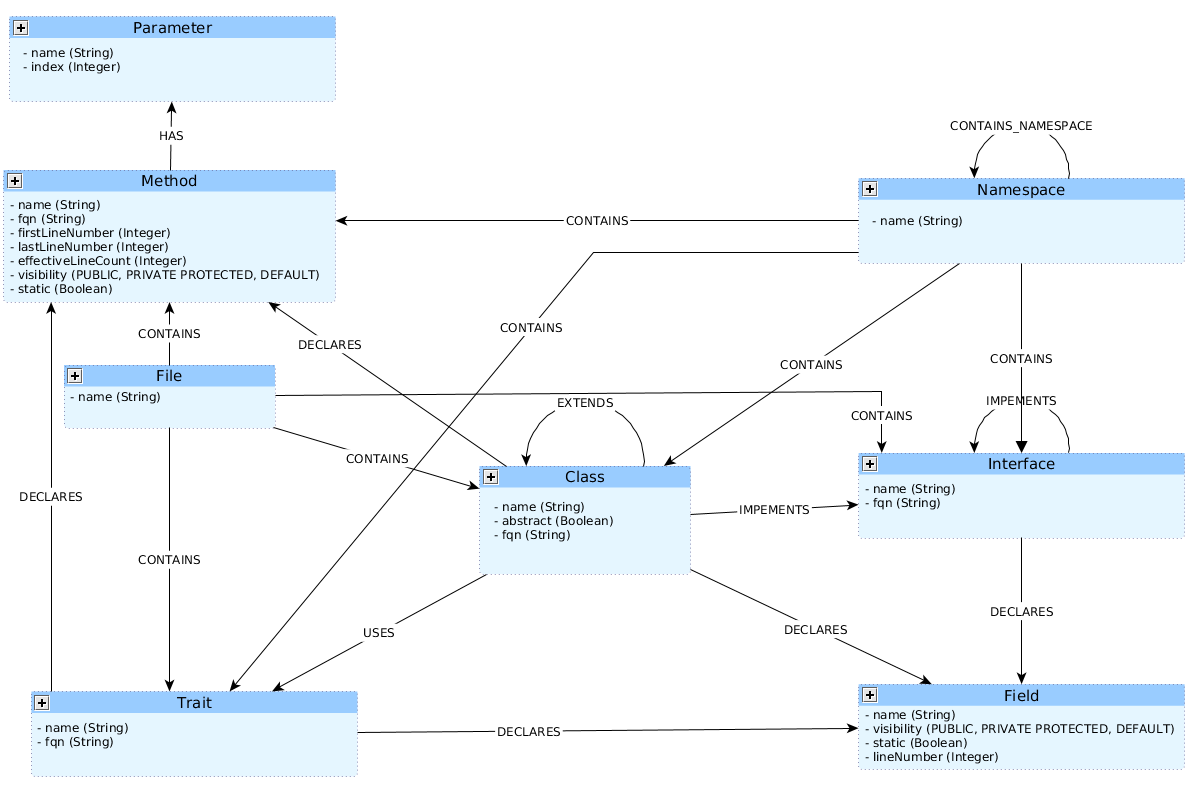
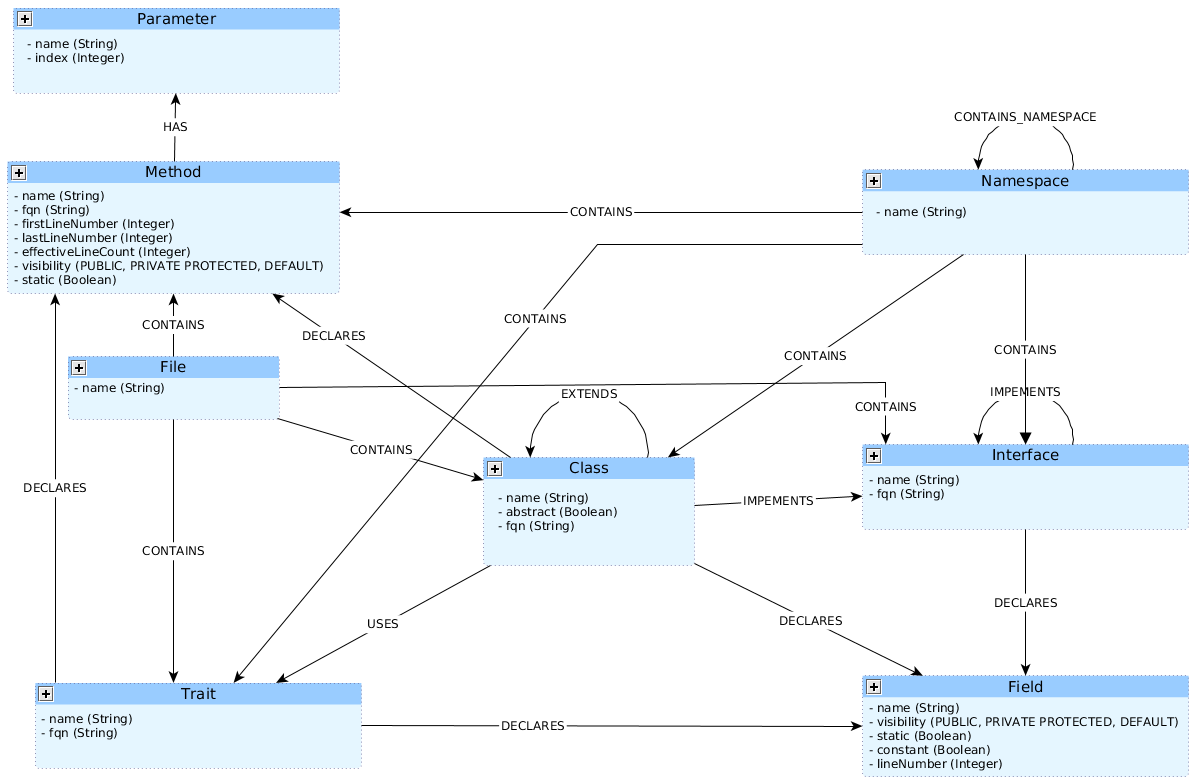
Field: add constant property

diff --git a/src/main/java/org/jqassistant/contrib/plugin/php/scanner/parser/PHPConstantParser.java b/src/main/java/org/jqassistant/contrib/plugin/php/scanner/parser/PHPConstantParser.java
@@ -13,11 +13,11 @@ import org.jqassistant.contrib.plugin.php.model.PHPPropertyDescriptor;
  * parse subtree and detect property characteristics 
  * @author falk
  */
-public class PHPPropertyParser {
+public class PHPConstantParser {
     protected Helper helper;
     protected PHPPropertyDescriptor phpProperty;
     
-    public PHPPropertyParser (Helper helper){
+    public PHPConstantParser (Helper helper){
         this.helper = helper;
     }
     
@@ -29,9 +29,10 @@ public class PHPPropertyParser {
     public PHPPropertyDescriptor parse(ParseTree tree){
         phpProperty = helper.getProperty();
         phpProperty.setLineNumber(helper.getLineNumberByTokenNumber(tree.getChild(0).getSourceInterval().a));
+        phpProperty.setConstant(Boolean.TRUE);
         parseTree(tree, 1);
         
-        System.err.println("ADD Property: " + phpProperty.getName() + " " + phpProperty.getVisibility() + (phpProperty.isStatic() ? " STATIC" : "") + (phpProperty.isConstant()? " CONSTANT" : ""));
+        System.err.println("ADD Constant: " + phpProperty.getName() + " " + phpProperty.getVisibility() + (phpProperty.isStatic() ? " STATIC" : "") + (phpProperty.isConstant()? " CONSTANT" : ""));
         return phpProperty;
     }
     
@@ -42,27 +43,12 @@ public class PHPPropertyParser {
      */
     protected void parseTree(ParseTree tree, int level){
         
-//        String pad = "PPPPPPPPPPPPPPPPPPPPPPPPPPPPPPPPPPPPPPPPPPPPPPPPPPPPPPPPPPPPPPPPPPPPPPPPP".substring(0, level);
-//        System.err.println(pad + " [" + tree.getClass().getSimpleName() + "]: " + tree.getText()); //getCanonicalName
+        //String pad = "PPPPPPPPPPPPPPPPPPPPPPPPPPPPPPPPPPPPPPPPPPPPPPPPPPPPPPPPPPPPPPPPPPPPPPPPP".substring(0, level);
+        //System.err.println(pad + " [" + tree.getClass().getSimpleName() + "]: " + tree.getText()); //getCanonicalName
         
-        if(tree.getClass().getSimpleName().equals("VariableInitializerContext")){
+        if(tree.getClass().getSimpleName().equals("IdentifierContext")){
             phpProperty.setName(tree.getChild(0).getText());
-        }
-        else if (tree.getClass().getSimpleName().equals("MemberModifierContext")){
-           switch (tree.getText().toLowerCase()){
-                case "static":
-                    phpProperty.setStatic(Boolean.TRUE);
-                    break;
-                case "private":
-                    phpProperty.setVisibility(VisibilityModifier.PRIVATE);
-                    break;
-                case "protected":
-                    phpProperty.setVisibility(VisibilityModifier.PROTECTED);
-                    break;
-                case "public":
-                    phpProperty.setVisibility(VisibilityModifier.PUBLIC);
-                    break;
-            }
+            return;
         }
 
         int childCount = tree.getChildCount();

diff --git a/src/main/java/org/jqassistant/contrib/plugin/php/scanner/parser/PHPTypeParser.java b/src/main/java/org/jqassistant/contrib/plugin/php/scanner/parser/PHPTypeParser.java
@@ -50,8 +50,8 @@ public class PHPTypeParser {
      */
     protected void parseTree(ParseTree tree, int level, int idx){
         
-        //String pad = "CCCCCCCCCCCCCCCCCCCCCCCCCCCCCCCCCCCCCCCCCCCCCCCCCCCCCCCCCCCCCCCCC".substring(0, level);
-        //System.err.println(pad + " [" + tree.getClass().getSimpleName() + "]: " + tree.getText()); //getCanonicalName
+//        String pad = "CCCCCCCCCCCCCCCCCCCCCCCCCCCCCCCCCCCCCCCCCCCCCCCCCCCCCCCCCCCCCCCCC".substring(0, level);
+//        System.err.println(pad + " [" + tree.getClass().getSimpleName() + "]: " + tree.getText()); //getCanonicalName
         
         if(phpClass == null && tree.getClass().getSimpleName().equals("IdentifierContext")) {
             if (type.equals("interface")){
@@ -86,6 +86,12 @@ public class PHPTypeParser {
                 else if (tree.getChild(i).getClass().getSimpleName().equals("MethodBodyContext")){
                     phpClass.getMethods().add((new PHPFunctionParser(helper, phpClass, namespace)).parse(tree));
                     return;
+                }
+                else if (tree.getChild(i).getClass().getSimpleName().equals("TerminalNodeImpl")){
+                    if(tree.getChild(i).getText().toLowerCase().equals("const")){
+                        phpClass.getProperties().add((new PHPConstantParser(helper)).parse(tree));
+                        return;
+                    }
                 }
             }
         }

diff --git a/src/main/java/org/jqassistant/contrib/plugin/php/model/PHPPropertyDescriptor.java b/src/main/java/org/jqassistant/contrib/plugin/php/model/PHPPropertyDescriptor.java
@@ -35,6 +35,14 @@ public interface PHPPropertyDescriptor extends PHPDescriptor  {
     void setStatic(Boolean s);
     
     /**
+     * is property constant
+     * @return boolean
+     */
+    @Property("constant")
+    Boolean isConstant();
+    void setConstant(Boolean c);
+    
+    /**
      * Number of line in source file
      * @return integer 
      */

diff --git a/src/main/java/org/jqassistant/contrib/plugin/php/scanner/parser/Helper.java b/src/main/java/org/jqassistant/contrib/plugin/php/scanner/parser/Helper.java
@@ -249,6 +249,7 @@ public class Helper {
         PHPPropertyDescriptor phpProperty = store.create(PHPPropertyDescriptor.class);
         phpProperty.setVisibility(VisibilityModifier.DEFAULT);
         phpProperty.setStatic(Boolean.FALSE);
+        phpProperty.setConstant(Boolean.FALSE);
         
         return phpProperty;
     }

diff --git a/src/test/resources/testfiles/class.php b/src/test/resources/testfiles/class.php
@@ -9,8 +9,8 @@ class index extends h implements o, \u\v {
     
     private $_p = 1;
     public static $prop;
-
-
+    const CONSTANT1 = 'Konstanter Wert';
+    
     public function __construct(){
         echo "text index contructor";
     }
